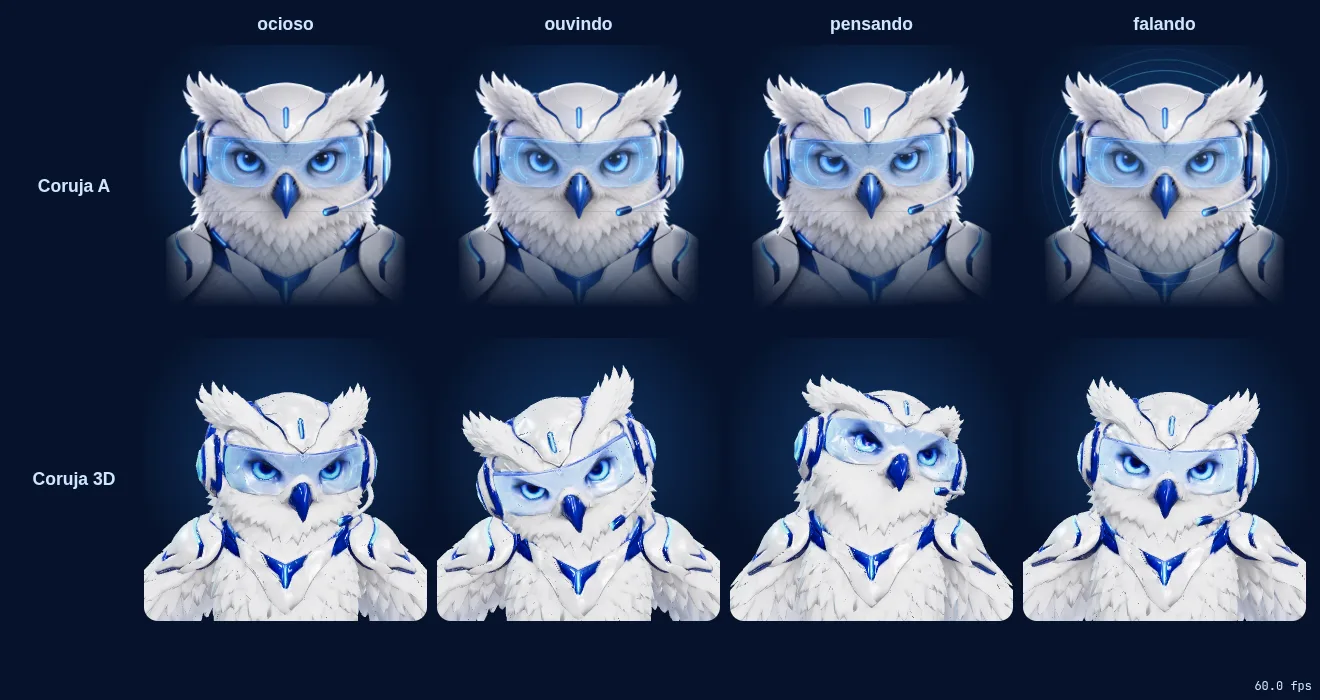
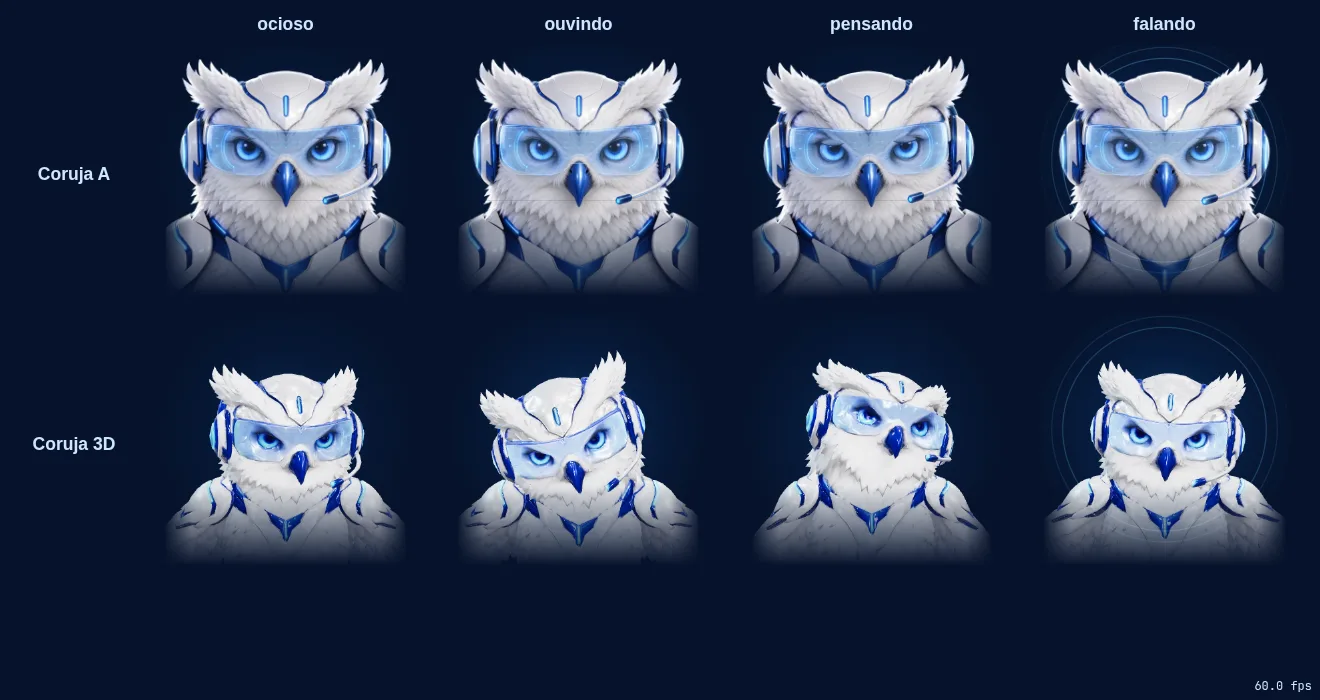
feat(stand): coruja 3D com degradê e halo da Coruja A, penas sem serrilhado
- canvas dentro do SVG da A (viewBox -90 -60 1204 1104) com as máscaras busto-m e lados-m
- halo radial e 3 ondas na fala com as fórmulas da A (haloCoruja3D)
- pixel ratio mínimo 1.5 e material DoubleSide contra os furos de subpixel da malha

diff --git a/src/components/stand/AvatarCoruja3D.tsx b/src/components/stand/AvatarCoruja3D.tsx
@@ -1,12 +1,16 @@
-import { useEffect, useRef, useState } from 'react';
+import { useEffect, useId, useRef, useState } from 'react';
 import type { EstadoVoz } from './canal';
 import AvatarCorujaA from './AvatarCorujaA';
+import { CAIXA_A, ONDAS, haloCoruja3D } from './coruja3dRig';
 
 /**
  * Variante `coruja-3d`: a coruja do Tripo em three.js, com um clipe por estado
  * de voz e o brilho do visor/fones seguindo o áudio. A cena vem num chunk
  * próprio (import dinâmico). Sem WebGL, ou se o GLB/texturas não carregarem,
  * mostra a Coruja A com as mesmas props; o motivo fica em `data-fallback`.
+ *
+ * Mesma moldura da Coruja A: SVG com o viewBox dela, halo e ondas atrás, e o
+ * canvas no lugar da arte (0..1024) com o mesmo degradê embaixo e nas laterais.
  */
 
 interface Props {
@@ -15,6 +19,9 @@ interface Props {
   parado: boolean;
   className?: string;
 }
+
+const LADO = 1024;
+const { x: CX, y: CY, largura: CL, altura: CA } = CAIXA_A;
 
 export function temWebGL(): boolean {
   if (typeof document === 'undefined') return false;
@@ -30,8 +37,11 @@ export function temWebGL(): boolean {
 
 export default function AvatarCoruja3D({ voz, nivel, parado, className }: Props) {
   const canvasRef = useRef<HTMLCanvasElement>(null);
+  const svgRef = useRef<SVGSVGElement>(null);
   const vozRef = useRef(voz);
   vozRef.current = voz;
+  const id = useId().replace(/[^a-zA-Z0-9_-]/g, '');
+  const u = (nome: string) => `c3${id}-${nome}`;
   const [falha, setFalha] = useState<string | null>(null);
   const [pronto, setPronto] = useState(false);
 
@@ -41,6 +51,8 @@ export default function AvatarCoruja3D({ voz, nivel, parado, className }: Props)
     if (!temWebGL()) { setFalha('webgl'); return undefined; }
     let vivo = true;
     let cena: { dispose(): void } | null = null;
+    const halo = svgRef.current?.querySelector('[data-c3="halo"]');
+    const ondas = [...(svgRef.current?.querySelectorAll('[data-c3="onda"]') ?? [])];
     const falhar = (erro: unknown) => {
       if (!vivo) return;
       console.warn('[coruja-3d] voltando para a Coruja A:', erro);
@@ -53,6 +65,14 @@ export default function AvatarCoruja3D({ voz, nivel, parado, className }: Props)
           canvas, voz: () => vozRef.current, nivel, parado,
           aoPronto: () => { if (vivo) setPronto(true); },
           aoFalhar: falhar,
+          aoQuadro: (v, fala, agora) => {
+            const h = haloCoruja3D(v, fala, agora);
+            halo?.setAttribute('fill-opacity', h.halo.toFixed(3));
+            h.ondas.forEach((o, i) => {
+              ondas[i]?.setAttribute('r', o.r.toFixed(1));
+              ondas[i]?.setAttribute('stroke-opacity', o.opacidade.toFixed(3));
+            });
+          },
         });
       } catch (erro) {
         falhar(erro);
@@ -69,15 +89,55 @@ export default function AvatarCoruja3D({ voz, nivel, parado, className }: Props)
     );
   }
   return (
-    <canvas
-      ref={canvasRef}
+    <svg
+      ref={svgRef}
+      viewBox={`${CAIXA_A.x} ${CAIXA_A.y} ${CAIXA_A.largura} ${CAIXA_A.altura}`}
       className={className}
       role="img"
       aria-label="Avatar LUCA"
       data-variante="coruja-3d"
       data-voz={voz}
       data-pronto={pronto ? 'sim' : 'nao'}
-      style={{ aspectRatio: '1 / 1' }}
-    />
+      xmlns="http://www.w3.org/2000/svg"
+    >
+      <defs>
+        <radialGradient id={u('halo')}>
+          <stop offset="0" stopColor="#64d2ff" stopOpacity="0.55" />
+          <stop offset="0.55" stopColor="#0a84ff" stopOpacity="0.18" />
+          <stop offset="1" stopColor="#0a84ff" stopOpacity="0" />
+        </radialGradient>
+        {/* Mesmas máscaras da Coruja A: degradê embaixo (`busto-m`) e laterais do peito (`lados-m`). */}
+        <linearGradient id={u('busto')} x1="0" y1="0" x2="0" y2="1">
+          <stop offset="0.66" stopColor="#fff" />
+          <stop offset="0.97" stopColor="#000" />
+        </linearGradient>
+        <linearGradient id={u('lados')} x1="0" y1="0" x2="1" y2="0">
+          <stop offset="0.07" stopColor="#000" />
+          <stop offset="0.17" stopColor="#fff" />
+          <stop offset="0.83" stopColor="#fff" />
+          <stop offset="0.93" stopColor="#000" />
+        </linearGradient>
+        <mask id={u('busto-m')} maskUnits="userSpaceOnUse" x={CX} y={CY} width={CL} height={CA}>
+          <rect x={CX} y={CY} width={CL} height={CA} fill={`url(#${u('busto')})`} />
+        </mask>
+        <mask id={u('lados-m')} maskUnits="userSpaceOnUse" x={CX} y={CY} width={CL} height={CA}>
+          <rect x={CX} y={CY} width={CL} height={CA} fill="#fff" />
+          {/* Sem o retângulo preto da A embaixo: o degradê já é opaco, e a borda dupla
+              suavizada deixava uma linha fina em y=600. */}
+          <rect x={CX} y="600" width={CL} height={CY + CA - 600} fill={`url(#${u('lados')})`} />
+        </mask>
+      </defs>
+      <circle data-c3="halo" cx={CAIXA_A.cx} cy={CAIXA_A.cy} r="560" fill={`url(#${u('halo')})`} fillOpacity="0.3" />
+      {Array.from({ length: ONDAS }, (_, i) => (
+        <circle key={i} data-c3="onda" cx={CAIXA_A.cx} cy={CAIXA_A.cy} r="400" fill="none" stroke="#64d2ff" strokeWidth="5" strokeOpacity="0" />
+      ))}
+      <g mask={`url(#${u('lados-m')})`}>
+        <g mask={`url(#${u('busto-m')})`}>
+          <foreignObject x="0" y="0" width={LADO} height={LADO}>
+            <canvas ref={canvasRef} style={{ display: 'block', width: '100%', height: '100%' }} />
+          </foreignObject>
+        </g>
+      </g>
+    </svg>
   );
 }

diff --git a/src/components/stand/criarCenaCoruja3D.ts b/src/components/stand/criarCenaCoruja3D.ts
@@ -22,6 +22,8 @@ interface Opcoes {
   parado: boolean;
   aoPronto(): void;
   aoFalhar(erro: unknown): void;
+  /** Por quadro, depois do render: voz em vigor e nível de fala suavizado (0..1), para o halo. */
+  aoQuadro?(voz: EstadoVoz, fala: number, agoraMs: number): void;
 }
 
 function liberar(raiz: THREE.Object3D) {
@@ -40,9 +42,10 @@ function liberar(raiz: THREE.Object3D) {
   texturas.forEach((t) => t.dispose());
 }
 
-export function criarCenaCoruja3D({ canvas, voz, nivel, parado, aoPronto, aoFalhar }: Opcoes): CenaCoruja3D {
+export function criarCenaCoruja3D({ canvas, voz, nivel, parado, aoPronto, aoFalhar, aoQuadro }: Opcoes): CenaCoruja3D {
   const renderer = new THREE.WebGLRenderer({ canvas, antialias: true, alpha: true, powerPreference: 'low-power' });
-  renderer.setPixelRatio(Math.min(window.devicePixelRatio || 1, 2));
+  // Penas finas serrilham em tela 1x: desenha a pelo menos 1,5x (teto 2x) e o navegador reduz.
+  renderer.setPixelRatio(Math.min(Math.max(window.devicePixelRatio || 1, 1.5), 2));
   renderer.outputColorSpace = THREE.SRGBColorSpace;
   renderer.toneMapping = THREE.ACESFilmicToneMapping;
   renderer.toneMappingExposure = 1.0;
@@ -82,8 +85,10 @@ export function criarCenaCoruja3D({ canvas, voz, nivel, parado, aoPronto, aoFalh
   const eixo = new THREE.Vector3();
 
   function enquadrar() {
-    const largura = canvas.clientWidth || 1;
-    const altura = canvas.clientHeight || 1;
+    // Dentro do foreignObject o tamanho CSS é o da arte (1024); vale o tamanho na tela.
+    const caixa = canvas.getBoundingClientRect();
+    const largura = Math.max(1, Math.round(caixa.width));
+    const altura = Math.max(1, Math.round(caixa.height));
     const aspecto = largura / altura;
     renderer.setSize(largura, altura, false);
     camera.aspect = aspecto;
@@ -124,6 +129,7 @@ export function criarCenaCoruja3D({ canvas, voz, nivel, parado, aoPronto, aoFalh
       pescoco.quaternion.premultiply(qAceno.setFromAxisAngle(eixo, aceno));
     }
     renderer.render(cena, camera);
+    aoQuadro?.(v, memoria.nivel, agora);
   }
 
   function laco(agora: number) {
@@ -133,7 +139,7 @@ export function criarCenaCoruja3D({ canvas, voz, nivel, parado, aoPronto, aoFalh
   }
 
   const observador = new ResizeObserver(() => { enquadrar(); if (parado && modelo) renderer.render(cena, camera); });
-  observador.observe(canvas);
+  observador.observe(canvas.closest('svg') ?? canvas);
   enquadrar();
 
   (async () => {
@@ -150,6 +156,9 @@ export function criarCenaCoruja3D({ canvas, voz, nivel, parado, aoPronto, aoFalh
       if (malha.isMesh) {
         malha.frustumCulled = false; // a pele animada sai do bounding box de repouso
         const m = malha.material as THREE.MeshStandardMaterial;
+        // O mesh do Tripo tem frestas de subpixel entre as penas; com face única o fundo
+        // vaza por elas em pontinhos escuros. Dupla face tapa com o interior claro.
+        m.side = THREE.DoubleSide;
         if (m.emissiveMap) { m.emissive.set(0xffffff); emissivos.push(m); }
       }
     });

diff --git a/tests/stand-coruja-3d.test.js b/tests/stand-coruja-3d.test.js
@@ -23,12 +23,23 @@ test('coruja-3d entra como variante opcional; a padrão segue coruja A', () => {
   assert.ok(VARIANTES_AVATAR.includes('coruja-3d'));
 });
 
-test('no servidor a coruja 3D sai como canvas marcado, sem quebrar o SSR', () => {
+test('no servidor a coruja 3D sai na moldura da Coruja A (halo, ondas, canvas com degradê)', () => {
   const html = renderToStaticMarkup(createElement(AvatarLuca, { variante: 'coruja-3d', voz: 'falando', parado: true }));
-  assert.match(html, /^<canvas/);
+  assert.match(html, /^<svg[^>]*viewBox="-90 -60 1204 1104"/);
   assert.match(html, /data-variante="coruja-3d"/);
   assert.match(html, /data-voz="falando"/);
   assert.match(html, /aria-label="Avatar LUCA"/);
+  assert.equal((html.match(/data-c3="onda"/g) || []).length, 3);
+  assert.match(html, /<mask id="[^"]*busto-m"/);
+  assert.match(html, /<mask id="[^"]*lados-m"/);
+  assert.match(html, /<g mask="url\(#[^)]*lados-m\)"><g mask="url\(#[^)]*busto-m\)"><foreignObject[^>]*width="1024"[^>]*><canvas/);
+});
+
+test('halo e ondas seguem as fórmulas da Coruja A: ondas só com fala', () => {
+  assert.ok(rig.haloCoruja3D('ocioso', 0, 700).ondas.every((o) => o.opacidade === 0));
+  const fala = rig.haloCoruja3D('falando', 1, 0);
+  assert.ok(fala.halo > 0.8);
+  assert.deepEqual(fala.ondas.map((o) => Math.round(o.r)), [400, 447, 493]);
 });
 
 test('cada estado de voz tem um clipe no GLB, mais o aceno de entrada', () => {

diff --git a/src/components/stand/coruja3dRig.ts b/src/components/stand/coruja3dRig.ts
@@ -26,6 +26,23 @@ export const ENQUADRAMENTO = Object.freeze({ alvoY: 0.71, altura: 0.76, largura:
 
 export interface MemoriaBrilho { nivel: number }
 
+/** Mesma caixa do SVG da Coruja A, para halo e ondas caírem no mesmo lugar. */
+export const CAIXA_A = Object.freeze({ x: -90, y: -60, largura: 1204, altura: 1104, cx: 512, cy: 430 });
+export const ONDAS = 3;
+const ONDA_MS = 1500;
+const BRILHO_BASE: Readonly<Record<EstadoVoz, number>> = { ocioso: 0.18, ouvindo: 0.55, pensando: 0.4, falando: 0.35 };
+
+/** Halo e ondas da Coruja A (mesmas fórmulas): só a fala acende as ondas. `fala` é o nível suavizado 0..1. */
+export function haloCoruja3D(voz: EstadoVoz, fala: number, agoraMs: number) {
+  return {
+    halo: 0.25 + BRILHO_BASE[voz] * 0.35 + fala * 0.5,
+    ondas: Array.from({ length: ONDAS }, (_, i) => {
+      const fase = ((agoraMs / ONDA_MS) + i / ONDAS) % 1;
+      return { r: 400 + fase * 140, opacidade: fala * (1 - fase) * 0.9 };
+    }),
+  };
+}
+
 /**
  * Intensidade do emissivo (visor, fones, microfone, frisos) por quadro.
  * Falando: segue o áudio suavizado (sobe rápido, desce devagar). Ouvindo:
